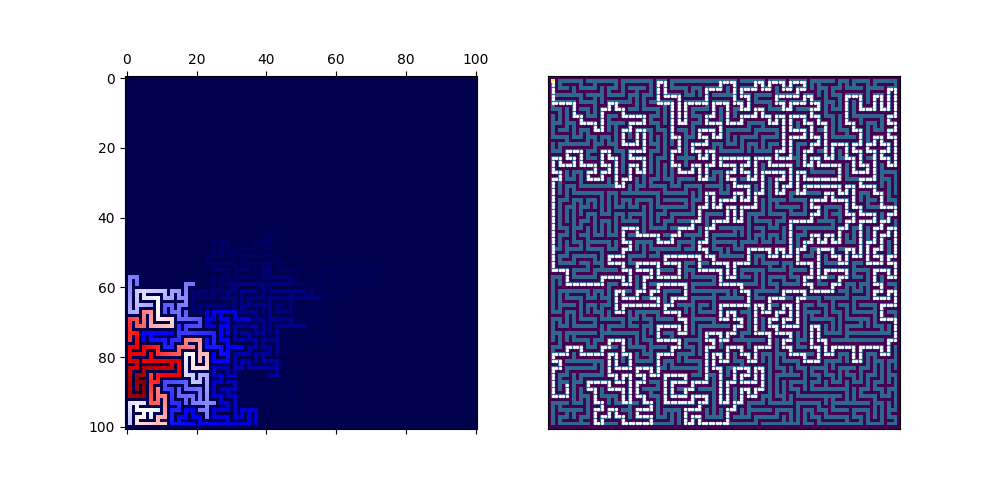
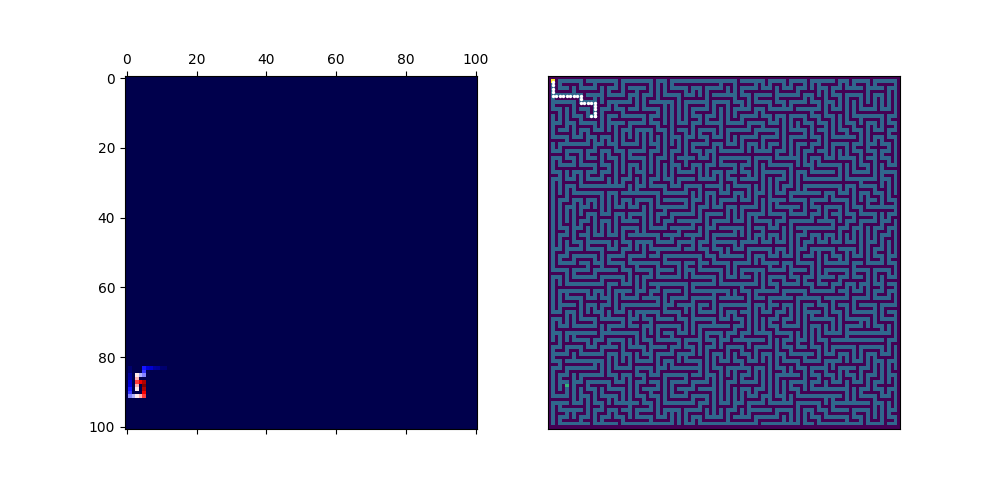
added policy iteration v1

Changed region(s): [[0.527, 0.15, 0.899, 0.87], [0.124, 0.48, 0.341, 0.87], [0.527, 0.72, 0.558, 0.78]]

diff --git a/pol_iter.py b/pol_iter.py
@@ -1,0 +1,138 @@
+# Imports 
+import random
+import numpy as np
+from track_time import track_time
+from utility import print_mat_2d, v_to_mat
+from maze import draw_maze, load_maze, MazeMDP
+
+def policy_evaluation(maze, V, policy):
+    """ Evaluates given policy and returns value of each state based on it. """
+    # For each state ...
+    Vold = V.copy()
+    for s in maze.states:
+        a = policy[s] # Take action as per given policy.
+        # Compute sum of immediate and future discounted rewards 
+        # across all possible next states from s.
+        u = 0 # expected utility under given policy
+        # For each possible next state ...
+        for s_prime in [(s[0]+a[0], s[1]+a[1]) for a in maze.actions]:
+            transitionProb = maze.T(s, a, s_prime) # Transition probability.
+            # Proceed only if not 0, else index out of bounds error.
+            # This shall not affect end result as 0 * anything = 0.
+            if (transitionProb > 0): 
+                reward = (
+                    maze.R(s, a, s_prime) + # Immediate reward + 
+                    (maze.gamma * Vold[s_prime]) # Discounted future reward.
+                )
+                u += transitionProb * reward
+        V[s] = u # keep track of computed value.
+    return V
+
+def policy_improvement(maze, V):
+    """ Updates given policy to be optimized as per latest values of each state. """
+    policy = {}
+    for s in maze.states:
+        Q = {}
+        # For each action ...
+        for a in maze.actions:
+            u = 0 # Expected utility of taking action a at state s as per last evaluated policy.
+            # For each possible next state ...
+            for s_prime in [(s[0]+a[0], s[1]+a[1]) for a in maze.actions]:
+                transition_prob = maze.T(s, a, s_prime)
+                if (transition_prob > 0):
+                    reward = (
+                        maze.R(s, a, s_prime) + # Immediate reward + 
+                        (maze.gamma * V[s_prime]) # Discounted future reward.
+                    )
+                    u += transition_prob * reward
+            Q[a] = u
+        policy[s] = max(Q, key=Q.get) # Update the policy.
+    return policy
+
+def get_path(maze, policy):
+    print('Determining path ...')
+    s = maze.start # Start state.
+    path = []
+    while (s != maze.goal):
+        try:
+            if (s in path):
+                print('Loop')
+                break
+            path.append(s)
+            a = policy[s]
+            s = maze.succ(s, a)
+        except:
+            break
+    path.append(s)
+    return path
+
+@track_time
+def policy_iteration(maze, print_values=False):
+    if print_values: 
+        print('Maze:')
+        print_mat_2d(maze.maze)
+
+    # Initially,
+    V = {}
+    policy = {}
+    for state in maze.states: # for all states in the maze,
+        V[state] = 0.0 # value = 0 and 
+        policy[state] = random.choice(maze.actions) # policy is random.
+
+    k = 0 # Keep count of no. of iterations.
+    converged = False # Keep track of whether policy has converged.
+    # Policy is considered to have converged if it no longer changes
+    # for all states between one iteration and the next.
+    print('Policy iteration ...')
+    while(not converged): 
+        V = policy_evaluation(maze, V, policy)
+        policy_improved = policy_improvement(maze, V)
+        # If no change in policy after improvement,
+        # then, policy has converged.
+        converged = all(
+            policy_improved[state] == policy[state] 
+            for state in maze.states
+        )
+        policy = policy_improved # Else, prep for next round of evaluation and improvement.
+        k += 1
+    
+    # Once policy has converged, get the best path to goal based on it.
+    path = get_path(maze, policy)
+
+    return {
+        'path': path,
+        'v': v_to_mat(V, maze.maze.shape),
+        'policy': policy,
+        'num_iterations': k
+    }
+
+if __name__ == '__main__':
+    # # TEST MAZE
+    # maze = MazeMDP(dim=20, gamma=0.9)
+    # res = policy_iteration(maze)
+    # print('No. of iterations =', res['num_iterations'])
+    # draw_maze(
+    #     maze=maze.maze, 
+    #     path=res['path'], 
+    #     v=res['v']
+    # )
+
+    # TINY MAZE
+    maze = MazeMDP(maze=load_maze(path='./mazes/t_dim5.json'), gamma=0.9)
+    res = policy_iteration(maze, print_values=True)
+    draw_maze(maze=maze.maze, save_dir='./solutions', save_filename=f'mdpvi_dim{maze.maze.shape[0]}', save_animation=False, path=res['path'], v=res['v'])
+
+    # SMALL MAZE
+    maze = MazeMDP(maze=load_maze(path='./mazes/s_dim21.json'), gamma=0.9)
+    res = policy_iteration(maze)
+    draw_maze(maze=maze.maze, save_dir='./solutions', save_filename=f'mdpvi_dim{maze.maze.shape[0]}', save_animation=False, path=res['path'], v=res['v'])
+
+    # MEDIUM MAZE
+    maze = MazeMDP(maze=load_maze(path='./mazes/m_dim41.json'), gamma=0.9)
+    res = policy_iteration(maze)
+    draw_maze(maze=maze.maze, save_dir='./solutions', save_filename=f'mdpvi_dim{maze.maze.shape[0]}', save_animation=False, path=res['path'], v=res['v'])
+
+    # LARGE MAZE
+    maze = MazeMDP(maze=load_maze(path='./mazes/l_dim101.json'), gamma=0.9)
+    res = policy_iteration(maze)
+    draw_maze(maze=maze.maze, save_dir='./solutions', save_filename=f'mdpvi_dim{maze.maze.shape[0]}', save_animation=False, path=res['path'], v=res['v'])

diff --git a/utility.py b/utility.py
@@ -1,3 +1,4 @@
+import numpy as np
 from maze import draw_maze
 
 def handle_result(res, maze, save_dir, save_filename, save_animation=False):
@@ -12,3 +13,13 @@ def handle_result(res, maze, save_dir, save_filename, save_animation=False):
     print(f"Execution time = {res['seconds']} seconds")
     print(f"No. of dead ends = {res['num_dead_ends']}")
     print(f"No. of nodes traversed = {res['num_nodes_traversed']}/{maze.shape[0]*maze.shape[1]}")
+
+def print_mat_2d(mat):
+    for row in mat:
+        print(row.tolist())
+
+def v_to_mat(v, shape):
+    mat = np.zeros(shape) - 1
+    for key, val in v.items():
+        mat[key] = val
+    return mat

diff --git a/val_iter.py b/val_iter.py
@@ -1,17 +1,8 @@
 # Imports 
 import numpy as np
 from track_time import track_time
+from utility import print_mat_2d, v_to_mat
 from maze import draw_maze, load_maze, MazeMDP
-
-def print_mat_2d(mat):
-    for row in mat:
-        print(row.tolist())
-
-def v_to_mat(v, shape):
-    mat = np.zeros(shape) - 1
-    for key, val in v.items():
-        mat[key] = val
-    return mat
 
 def value_iteration(maze, epsilon, print_values):
     """ 
